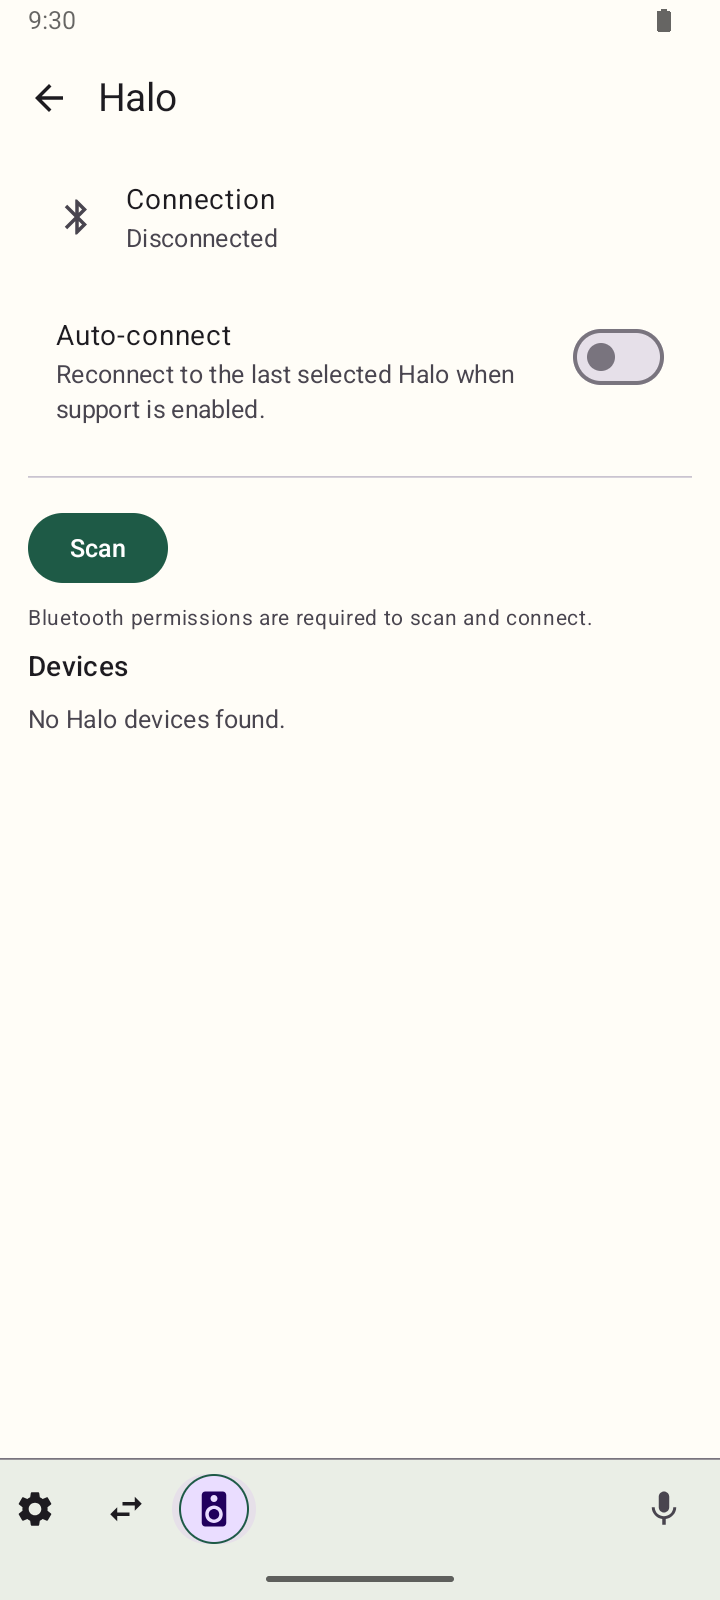
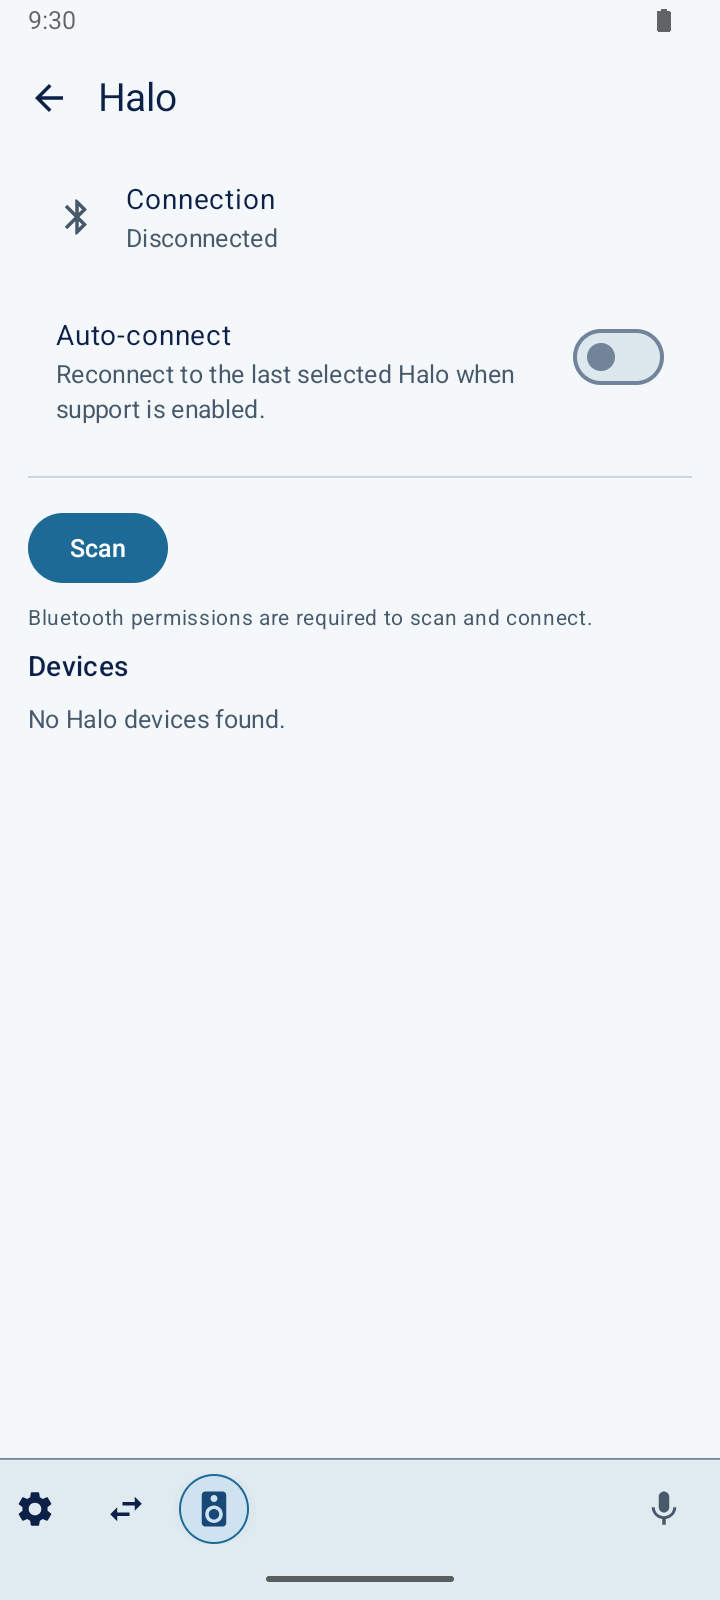
Refresh captures with the app's cerulean palette and add an accent text brand role
The Android app adopted the Brand table palette, so the native captures
now match this site's colors.

The app needs amber text on its tinted voice panel, where the Focus
amber reaches only 4.15:1. Focus stays #b45309 for 3:1 focus outlines;
the new Accent text role, #a14a08, is the app's 4.5:1 text amber.
Neither has a dark value yet: no dark surface draws amber, and the
Android dark scheme is a follow-up.

Validation: pnpm run fix, verify, build (includes wrangler deploy
--dry-run), and test (4 passed).

diff --git a/README.md b/README.md
@@ -59,3 +59,6 @@ The palette takes its blues from the Go Mode launcher icon. Text and brand color
 | Muted        | `#47596b` | `#bccddb` |
 | Line         | `#c4d3df` | —         |
 | Focus        | `#b45309` | —         |
+| Accent text  | `#a14a08` | —         |
+
+Focus draws keyboard focus outlines, which need 3:1 contrast. Accent text is the darker amber for highlighted text, such as the Android voice panel's active tool name; it keeps 4.5:1 on the panel's tinted surface, where Focus does not.
